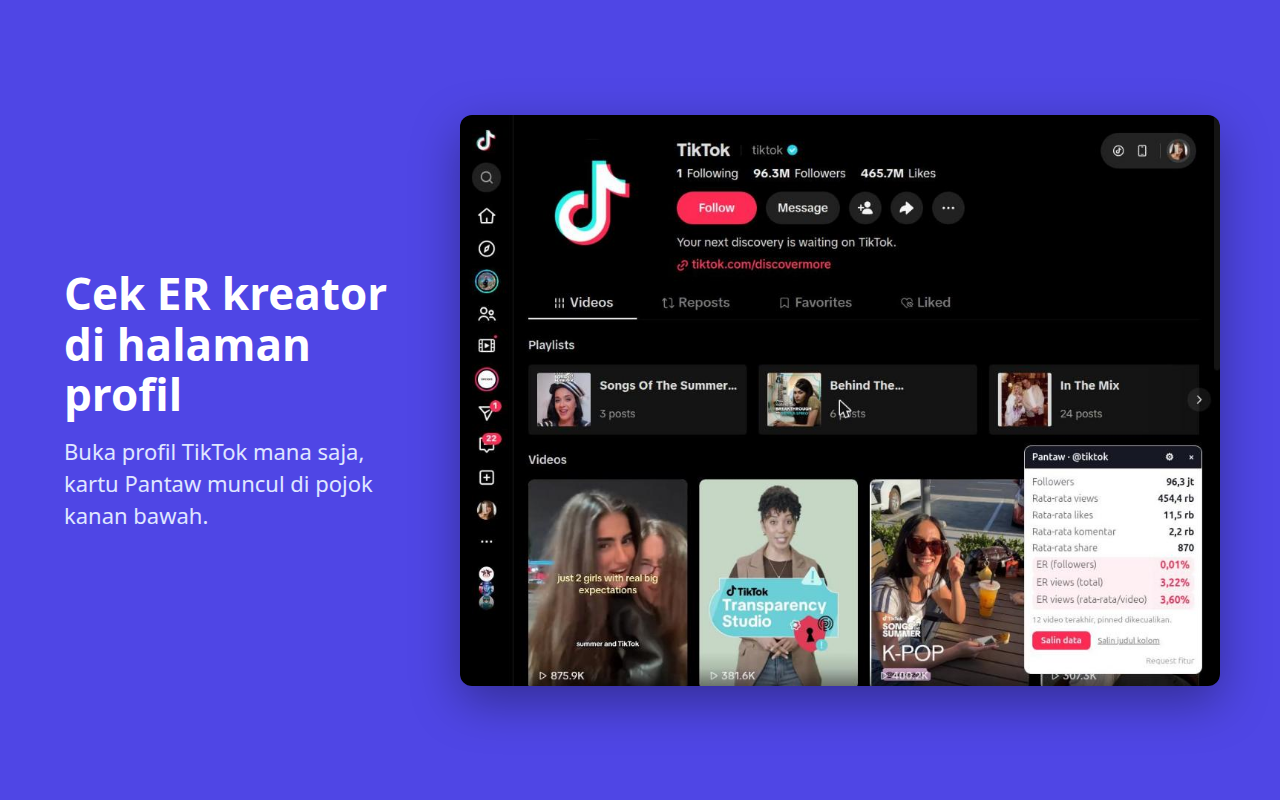
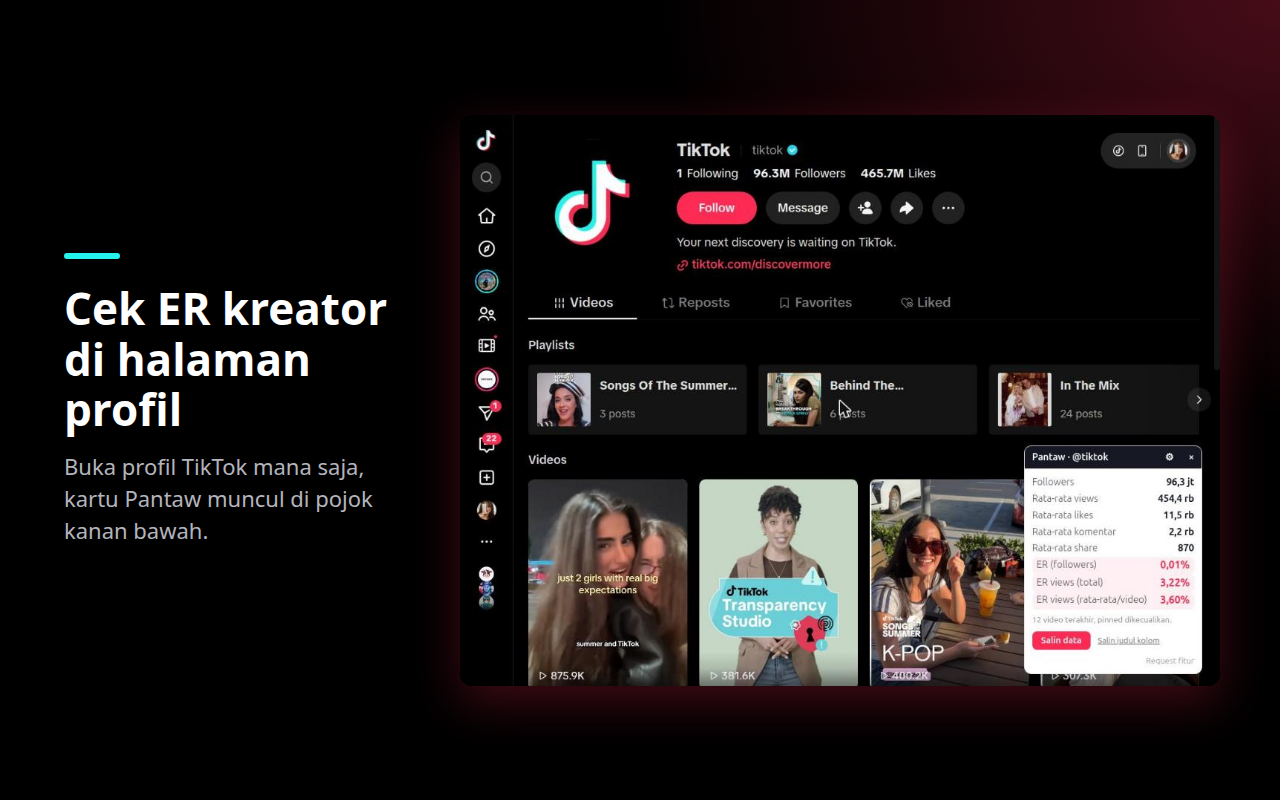
feat: palet hitam/merah/cyan untuk landing, privasi, ikon, aset store
- docs/index.html: dasar hitam, aksen #FE2C55, cyan #25F4EE untuk detail;
  header + hero selalu gelap; tombol #E3173F (teks putih AA 4,7:1)
- docs/privacy.html: warna baru + header gelap sama dengan landing
- ikon (assets/icon.svg, docs/icon.svg): lup merah + aksen glitch cyan di kotak hitam
- store: promo tile + bingkai screenshot dirender ulang dengan palet baru

diff --git a/docs/index.html b/docs/index.html
@@ -5,7 +5,7 @@
   <meta name="viewport" content="width=device-width, initial-scale=1">
   <title>Pantaw – Cek engagement rate KOL TikTok langsung di profil</title>
   <meta name="description" content="Extension Chrome gratis untuk cek engagement rate (ER) kreator TikTok langsung di halaman profil. Salin ke spreadsheet satu klik. Dihitung lokal, tanpa server, tanpa login.">
-  <meta name="theme-color" content="#4F46E5">
+  <meta name="theme-color" content="#000000">
   <link rel="icon" type="image/svg+xml" href="icon.svg">
   <meta property="og:type" content="website">
   <meta property="og:site_name" content="Pantaw">
@@ -17,15 +17,17 @@
   <style>
     :root {
       color-scheme: light dark;
-      --brand: #4F46E5; --brand-strong: #4338CA; --on-brand: #ffffff;
-      --fg: #111827; --muted: #4b5563; --bg: #ffffff; --soft: #f5f5ff; --card: #ffffff; --line: #e5e7eb;
-      --accent: #4F46E5;
+      /* Merah #FE2C55 terlalu terang untuk teks putih (3,7:1) → tombol pakai --brand yang sedikit lebih gelap (4,7:1). */
+      --red: #FE2C55; --cyan: #25F4EE;
+      --brand: #E3173F; --brand-strong: #C8102E; --on-brand: #ffffff;
+      --fg: #121212; --muted: #52525b; --bg: #ffffff; --soft: #f6f6f7; --card: #ffffff; --line: #e4e4e7;
+      --accent: #D4113A;
       --radius: 16px; --max: 1080px;
     }
     @media (prefers-color-scheme: dark) {
       :root {
-        --fg: #f3f4f6; --muted: #a1a1aa; --bg: #0b0d17; --soft: #12142a; --card: #161935; --line: #262a4d;
-        --accent: #a5b4fc;
+        --fg: #f5f5f5; --muted: #a1a1aa; --bg: #000000; --soft: #121212; --card: #161616; --line: #2a2a2a;
+        --accent: #FE2C55;
       }
     }
     * { box-sizing: border-box; }
@@ -39,9 +41,11 @@
     .lead { color: var(--muted); margin: 0 0 32px; max-width: 60ch; }
     section { padding: 64px 0; }
     .alt { background: var(--soft); }
+    /* Header & hero selalu gelap (di mode terang juga) */
+    header.top, .hero { color-scheme: dark; --fg: #f5f5f5; --muted: #b4b4bc; --bg: #000000; --soft: #121212; --card: #161616; --line: #2a2a2a; --accent: #FE2C55; color: var(--fg); }
 
     /* Header */
-    header.top { position: sticky; top: 0; z-index: 10; background: color-mix(in srgb, var(--bg) 85%, transparent); backdrop-filter: blur(10px); border-bottom: 1px solid var(--line); }
+    header.top { position: sticky; top: 0; z-index: 10; background: color-mix(in srgb, var(--bg) 92%, transparent); backdrop-filter: blur(10px); border-bottom: 1px solid var(--line); }
     header.top .wrap { display: flex; align-items: center; justify-content: space-between; height: 60px; }
     .brand { display: inline-flex; align-items: center; gap: 10px; font-weight: 700; font-size: 1.15rem; color: var(--fg); text-decoration: none; }
     .brand img { width: 30px; height: 30px; }
@@ -54,28 +58,28 @@
     .btns { display: flex; flex-wrap: wrap; gap: 12px; }
     .btn { display: inline-flex; align-items: center; justify-content: center; gap: 8px; min-height: 48px; padding: 0 22px; border-radius: 12px; font-weight: 600; text-decoration: none; border: 1px solid transparent; transition: transform .15s, background .15s; }
     .btn:hover { transform: translateY(-1px); }
-    .btn-primary { background: var(--brand); color: var(--on-brand); box-shadow: 0 8px 24px -8px rgba(79, 70, 229, .6); }
+    .btn-primary { background: var(--brand); color: var(--on-brand); box-shadow: 0 8px 24px -8px rgba(254, 44, 85, .6); }
     .btn-primary:hover { background: var(--brand-strong); }
     .btn-ghost { color: var(--fg); border-color: var(--line); background: var(--card); }
     .btn svg { width: 18px; height: 18px; flex: none; }
     @media (max-width: 480px) { .btns .btn { flex: 1 1 100%; } }
 
     /* Hero */
-    .hero { padding: 56px 0 40px; background: radial-gradient(1200px 500px at 50% -10%, rgba(79, 70, 229, .18), transparent 70%); }
+    .hero { padding: 56px 0 40px; background: radial-gradient(900px 420px at 85% -10%, rgba(254, 44, 85, .22), transparent 70%), radial-gradient(700px 360px at 0% 110%, rgba(37, 244, 238, .08), transparent 70%), #000; }
     .hero .wrap { display: grid; gap: 40px; }
-    .eyebrow { display: inline-block; font-size: 0.85rem; font-weight: 600; color: var(--accent); background: var(--soft); border: 1px solid var(--line); padding: 4px 12px; border-radius: 999px; margin-bottom: 16px; }
+    .eyebrow { display: inline-block; font-size: 0.85rem; font-weight: 600; color: var(--cyan); background: var(--soft); border: 1px solid var(--line); padding: 4px 12px; border-radius: 999px; margin-bottom: 16px; }
     .hero h1 { font-size: clamp(2rem, 6vw, 3.25rem); margin: 0 0 16px; }
     .hero h1 span { color: var(--accent); }
     .hero p.sub { font-size: 1.125rem; color: var(--muted); margin: 0 0 28px; max-width: 54ch; }
     .trust { display: flex; flex-wrap: wrap; gap: 8px 20px; margin: 20px 0 0; padding: 0; list-style: none; font-size: 0.9rem; color: var(--muted); }
-    .trust li::before { content: "✓ "; color: var(--accent); font-weight: 700; }
+    .trust li::before { content: "✓ "; color: var(--cyan); font-weight: 700; }
     @media (min-width: 900px) { .hero .wrap { grid-template-columns: 1fr 1.15fr; align-items: center; } .hero { padding: 80px 0 64px; } }
 
     /* Screenshot */
     .shot { border-radius: var(--radius); overflow: hidden; border: 1px solid var(--line); background: #000; box-shadow: 0 24px 60px -24px rgba(17, 24, 39, .35); }
     .shot img { width: 100%; }
     .stage { display: grid; place-items: center; padding: 28px 20px; border-radius: var(--radius); border: 1px solid var(--line);
-      background: radial-gradient(circle at 50% 0%, rgba(79, 70, 229, .22), transparent 70%), var(--soft); }
+      background: radial-gradient(circle at 50% 0%, rgba(254, 44, 85, .18), transparent 70%), var(--soft); }
     .stage img { border-radius: 14px; box-shadow: 0 18px 40px -18px rgba(17, 24, 39, .55); }
     figure { margin: 0; }
     figcaption { font-size: 0.9rem; color: var(--muted); margin-top: 12px; }
@@ -99,7 +103,7 @@
     @media (min-width: 960px) { .grid.four { grid-template-columns: repeat(4, 1fr); } .grid.three { grid-template-columns: repeat(3, 1fr); } }
     @media (min-width: 640px) and (max-width: 959px) { .grid.four { grid-template-columns: repeat(2, 1fr); } }
     .feat { background: var(--card); border: 1px solid var(--line); border-radius: var(--radius); padding: 22px; }
-    .feat .ic { width: 44px; height: 44px; border-radius: 12px; display: grid; place-items: center; background: rgba(79, 70, 229, .12); color: var(--accent); margin-bottom: 14px; }
+    .feat .ic { width: 44px; height: 44px; border-radius: 12px; display: grid; place-items: center; background: rgba(254, 44, 85, .12); color: var(--accent); margin-bottom: 14px; }
     .feat .ic svg { width: 22px; height: 22px; }
     .feat h3 { font-size: 1.05rem; margin: 0 0 6px; }
     .feat p { margin: 0; color: var(--muted); font-size: 0.95rem; }
@@ -116,11 +120,11 @@
     ol.steps p { margin: 0; color: var(--muted); font-size: 0.95rem; }
 
     /* Privasi */
-    .privacy { display: grid; gap: 28px; align-items: center; background: linear-gradient(135deg, var(--brand), #6D28D9); color: #fff; border-radius: 24px; padding: 36px 28px; }
+    .privacy { display: grid; gap: 28px; align-items: center; background: radial-gradient(600px 300px at 100% 0%, rgba(254, 44, 85, .28), transparent 70%), #121212; color: #fff; border: 1px solid #2a2a2a; border-radius: 24px; padding: 36px 28px; }
     .privacy h2 { color: #fff; }
-    .privacy p { color: rgba(255, 255, 255, .85); margin: 0 0 16px; }
+    .privacy p { color: #c4c4cc; margin: 0 0 16px; }
     .privacy ul { margin: 0; padding: 0; list-style: none; display: grid; gap: 10px; }
-    .privacy li { background: rgba(255, 255, 255, .1); border: 1px solid rgba(255, 255, 255, .18); border-radius: 12px; padding: 12px 14px; }
+    .privacy li { background: rgba(255, 255, 255, .06); border: 1px solid rgba(255, 255, 255, .12); border-left: 3px solid var(--cyan); border-radius: 12px; padding: 12px 14px; }
     .privacy a { color: #fff; font-weight: 600; }
     @media (min-width: 860px) { .privacy { grid-template-columns: 1fr 1fr; padding: 48px; } }
 

diff --git a/docs/privacy.html b/docs/privacy.html
@@ -5,10 +5,11 @@
   <meta name="viewport" content="width=device-width, initial-scale=1">
   <title>Kebijakan Privasi — Pantaw</title>
   <link rel="icon" type="image/svg+xml" href="icon.svg">
+  <meta name="theme-color" content="#000000">
   <meta name="description" content="Kebijakan privasi Pantaw – KOL ER Checker for TikTok: semua hitungan lokal di browser, tanpa server, tidak mengumpulkan data.">
   <style>
-    :root { color-scheme: light dark; --fg: #1f2937; --muted: #6b7280; --bg: #ffffff; --line: #e5e7eb; --accent: #4f46e5; }
-    @media (prefers-color-scheme: dark) { :root { --fg: #e5e7eb; --muted: #9ca3af; --bg: #111827; --line: #374151; --accent: #a5b4fc; } }
+    :root { color-scheme: light dark; --fg: #121212; --muted: #52525b; --bg: #ffffff; --line: #e5e7eb; --accent: #D4113A; }
+    @media (prefers-color-scheme: dark) { :root { --fg: #f5f5f5; --muted: #a1a1aa; --bg: #000000; --line: #2a2a2a; --accent: #FE2C55; } }
     * { box-sizing: border-box; }
     body { margin: 0; background: var(--bg); color: var(--fg); font: 16px/1.65 system-ui, -apple-system, "Segoe UI", Roboto, sans-serif; }
     main { max-width: 720px; margin: 0 auto; padding: 32px 20px 64px; }
@@ -21,9 +22,29 @@
     .muted { color: var(--muted); }
     section.en { margin-top: 40px; padding-top: 16px; border-top: 1px solid var(--line); }
     footer { margin-top: 40px; font-size: 0.9rem; }
+    /* Header gelap, sama dengan landing (docs/index.html) */
+    header.top { position: sticky; top: 0; z-index: 10; background: color-mix(in srgb, #000 92%, transparent); backdrop-filter: blur(10px); border-bottom: 1px solid #2a2a2a; color-scheme: dark; }
+    header.top .wrap { max-width: 1080px; margin: 0 auto; padding: 0 20px; display: flex; align-items: center; justify-content: space-between; height: 60px; }
+    .brand { display: inline-flex; align-items: center; gap: 10px; font-weight: 700; font-size: 1.15rem; color: #f5f5f5; text-decoration: none; }
+    .brand img { width: 30px; height: 30px; display: block; }
+    nav.links { display: flex; gap: 20px; font-size: 0.95rem; }
+    nav.links a { color: #b4b4bc; text-decoration: none; }
+    nav.links a:hover, nav.links a[aria-current] { color: #f5f5f5; }
+    @media (max-width: 640px) { nav.links .hide-sm { display: none; } }
   </style>
 </head>
 <body>
+<header class="top">
+  <div class="wrap">
+    <a class="brand" href="./"><img src="icon.svg" alt="" width="30" height="30">Pantaw</a>
+    <nav class="links">
+      <a class="hide-sm" href="./#fitur">Fitur</a>
+      <a class="hide-sm" href="./#cara-pakai">Cara pakai</a>
+      <a href="./#faq">FAQ</a>
+      <a href="privacy.html" aria-current="page">Privasi</a>
+    </nav>
+  </div>
+</header>
 <main>
   <h1>Kebijakan Privasi Pantaw</h1>
   <p class="muted">Pantaw – KOL ER Checker for TikTok (extension Chrome)<br>Berlaku sejak 16 Oktober 2026</p>

diff --git a/README.md b/README.md
@@ -59,12 +59,12 @@ Ikon: sumber `assets/icon.svg`; PNG 16/32/48/128 dibuat ke `dist/icons/` saat bu
 - [x] Pengaturan kolom (urutan + tampil/sembunyi) untuk kartu dan hasil salin — tombol ⚙ di kartu, ↑ ↓ + centang per kolom, "Kembalikan default"; satu `ColumnConfig` dipakai kartu, **Salin data**, dan **Salin judul kolom** (registri di `src/lib/columns.ts`, tes `tests/columns.test.ts`); disimpan di `chrome.storage.local` key `columns`, sinkron antar tab via `onChanged`; permission `storage` ditambahkan (satu-satunya, disetujui user 2026-10-15). Username/Nama/Jumlah video/Tanggal/Link hanya di hasil salin. Panel ⚙ diberi satu paragraf keterangan di atas daftar (fungsi centang, ↑ ↓, Kembalikan default, tersimpan di browser ini); tanpa keterangan per kolom (keputusan user 2026-10-16)
 - [x] Link **Request fitur** di kartu — `<a target="_blank" rel="noopener noreferrer">` kecil abu-abu rata kanan di bawah tombol salin, hanya saat metrik sudah ada — tidak saat "Menunggu data video…" (keputusan user 2026-10-16), membuka form Google (konstanta `FEATURE_REQUEST_URL` di `src/content.ts`) di tab baru; tanpa prefill — tidak ada username/data profil yang dikirim, tanpa permission baru. Belum dicek user di Chrome
 - [ ] Privacy policy + aset & listing Chrome Web Store — rincian (dicatat 2026-10-15):
-    - [x] Ikon PNG 16/32/48/128 + `icons` di `manifest.json` (SVG tidak boleh) — lup + pupil putih di kotak indigo `#4F46E5`; sumber `assets/icon.svg`, PNG digenerate ke `dist/icons/` tiap build oleh `scripts/icons.mjs` (rasterizer mini Node tanpa dependensi, PNG tidak di-commit); manifest tanpa `action`, jadi tidak ada `default_icon`
+    - [x] Ikon PNG 16/32/48/128 + `icons` di `manifest.json` (SVG tidak boleh) — lup merah `#FE2C55` + aksen glitch cyan `#25F4EE` + pupil putih di kotak hitam (palet TikTok 2026-10-16, sebelumnya indigo; 16px tetap terbaca); sumber `assets/icon.svg`, PNG digenerate ke `dist/icons/` tiap build oleh `scripts/icons.mjs` (rasterizer mini Node tanpa dependensi, PNG tidak di-commit); manifest tanpa `action`, jadi tidak ada `default_icon`
     - [x] `npm run zip`: build lalu zip **isi** `dist/` (manifest di akar zip), tolak kalau `version` tidak naik dari rilis terakhir — `scripts/zip.mjs` → `release/pantaw-<version>.zip` (`release/` di-.gitignore, pakai program `zip`); "rilis terakhir" = `pantaw-*.zip` dengan version tertinggi di `release/`
     - [x] Teks privacy policy (semua hitungan lokal, tanpa server, tidak mengumpulkan data) + URL publik untuk menampungnya
       - `docs/privacy.html` (ID + ringkasan EN) dan `docs/index.html`, di-host GitHub Pages dari folder `docs/` di `main`. URL yang diharapkan untuk listing: **https://anditriana.github.io/pantaw/privacy.html** (Pages belum diaktifkan — butuh merge + push dulu, lalu Settings → Pages → `main` / `/docs`)
-      - Landing `docs/index.html` didesain ulang 2026-10-16 untuk calon pemakai (marketer/brand/agensi): statis, CSS inline, mobile-first, dark mode ikut sistem, indigo `#4F46E5`; hero + fitur + cara pakai + privasi + FAQ + footer (Request fitur, GitHub, privasi, tidak berafiliasi TikTok). Screenshot asli dari Chrome user di `docs/img/` (`card.jpg` = hero + `og:image`, `card-zoom.png`, `settings.png`); hasil salin ditampilkan sebagai tabel CSS berlabel "contoh format · angka ilustrasi" (belum ada screenshot asli). Logo/favicon `docs/icon.svg` (salinan `assets/icon.svg`, karena Pages hanya menyajikan `docs/`). Tombol **Pasang di Chrome** masih `href="#"` + TODO sampai listing Chrome Web Store tayang
-    - [x] Draft listing: deskripsi, kategori, screenshot 1280×800, promo tile kecil 440×280 — `store/listing.md` (di luar `docs/`, tidak tayang di Pages): listing dua bahasa sungguhan (keputusan user 2026-10-16) — Indonesian default + English localized; nama/summary dari `_locales/{id,en}/messages.json` (manifest `__MSG_…__`, `default_locale` id, batas karakter dijaga `tests/locales.test.ts`, build menyalin `_locales/` ke `dist/`), deskripsi lengkap terpisah per bahasa, kategori Productivity, URL website/support/privacy, test instructions, checklist submit (Unlisted dulu). Aset: `store/promo-small.png` 440×280 dari `store/promo-small.svg` (tanpa logo TikTok) + 3 screenshot 1280×800 = bingkai indigo + screenshot asli `docs/img/`, dibuat `node store/render.mjs` (Chrome headless, karena `scripts/icons.mjs` tak bisa teks/raster); screenshot spreadsheet tidak dipakai, profil @tiktok dibiarkan (keputusan user). Kartu tampil normal setelah reload di Chrome biasa (dicek 2026-10-16)
+      - Landing `docs/index.html` didesain ulang 2026-10-16 untuk calon pemakai (marketer/brand/agensi): statis, CSS inline, mobile-first, dark mode ikut sistem; palet hitam/merah `#FE2C55`/cyan `#25F4EE` (2026-10-16, ganti dari indigo): header + hero selalu gelap, tombol utama `#E3173F` supaya teks putih lolos AA (4,7:1), cyan hanya detail kecil, `privacy.html` ikut header gelap yang sama; hero + fitur + cara pakai + privasi + FAQ + footer (Request fitur, GitHub, privasi, tidak berafiliasi TikTok). Screenshot asli dari Chrome user di `docs/img/` (`card.jpg` = hero + `og:image`, `card-zoom.png`, `settings.png`); hasil salin ditampilkan sebagai tabel CSS berlabel "contoh format · angka ilustrasi" (belum ada screenshot asli). Logo/favicon `docs/icon.svg` (salinan `assets/icon.svg`, karena Pages hanya menyajikan `docs/`). Tombol **Pasang di Chrome** masih `href="#"` + TODO sampai listing Chrome Web Store tayang
+    - [x] Draft listing: deskripsi, kategori, screenshot 1280×800, promo tile kecil 440×280 — `store/listing.md` (di luar `docs/`, tidak tayang di Pages): listing dua bahasa sungguhan (keputusan user 2026-10-16) — Indonesian default + English localized; nama/summary dari `_locales/{id,en}/messages.json` (manifest `__MSG_…__`, `default_locale` id, batas karakter dijaga `tests/locales.test.ts`, build menyalin `_locales/` ke `dist/`), deskripsi lengkap terpisah per bahasa, kategori Productivity, URL website/support/privacy, test instructions, checklist submit (Unlisted dulu). Aset: `store/promo-small.png` 440×280 dari `store/promo-small.svg` (tanpa logo TikTok) + 3 screenshot 1280×800 = bingkai hitam/merah/cyan + screenshot asli `docs/img/`, dibuat `node store/render.mjs` (Chrome headless, karena `scripts/icons.mjs` tak bisa teks/raster); screenshot spreadsheet tidak dipakai, profil @tiktok dibiarkan (keputusan user). Kartu tampil normal setelah reload di Chrome biasa (dicek 2026-10-16)
     - [x] Isian tab Privacy: single purpose, justifikasi `storage` (pengaturan kolom) dan host `tiktok.com` (baca data yang sudah dimuat halaman), remote code = tidak ada, data usage = tidak dikumpulkan; sebutkan link **Request fitur** hanya membuka form Google di tab baru atas klik user, tanpa data terkirim otomatis (isian form diproses Google, bukan extension) — cantumkan juga di privacy policy — draft di `store/listing.md` bagian 2: single purpose, justifikasi `storage` + host, remote code = No, data usage tidak ada kategori dicentang (keputusan user 2026-10-16; cadangan "Website content" bila reviewer keberatan), tiga sertifikasi; Request fitur sudah tercantum di `docs/privacy.html`
     - [x] Nama: pertimbangkan "KOL ER Checker for TikTok" (merek di judul rawan ditolak review) — merek **Pantaw** (keputusan user 2026-10-16): `name` "Pantaw – KOL ER Checker for TikTok", `short_name` "Pantaw", `description` bahasa Indonesia (131 karakter, sama dengan bahasa UI & target pengguna); `version` 0.1.0; judul kartu "Pantaw · @user" (format TSV tidak berubah)
     - [ ] (user) Daftar Developer Dashboard (sekali bayar ±USD 5), upload, submit — mulai **Unlisted** untuk tes

diff --git a/store/listing.md b/store/listing.md
@@ -213,7 +213,7 @@ Membuat ulang semua PNG: `node store/render.mjs` (dari akar repo; butuh `google-
 
 ### Isi tiap screenshot
 
-Semua: kanvas 1280×800 latar indigo `#4F46E5`, judul + subjudul putih di kiri, **screenshot asli** dari `docs/img/`
+Semua: kanvas 1280×800 latar hitam dengan cahaya merah `#FE2C55` di kanan atas, garis aksen cyan `#25F4EE` + judul putih + subjudul abu di kiri, **screenshot asli** dari `docs/img/`
 di kanan (hanya diperkecil/diperbesar, isi UI tidak diubah). Profil contoh = akun publik resmi `@tiktok`.
 
 1. **"Cek ER kreator di halaman profil"** — *Buka profil TikTok mana saja, kartu Pantaw muncul di pojok kanan bawah.*
@@ -231,8 +231,8 @@ Screenshot 1 memperlihatkan halaman TikTok apa adanya, termasuk logo TikTok di a
 
 ### Small promo tile
 
-`store/promo-small.svg` → `store/promo-small.png` (440×280): latar indigo `#4F46E5`, ikon Pantaw versi putih
-(lup indigo di kotak putih), teks **Pantaw**, tagline "Cek engagement rate KOL / langsung di halaman profil kreator".
+`store/promo-small.svg` → `store/promo-small.png` (440×280): latar hitam + cahaya merah, ikon Pantaw
+(lup merah + aksen cyan di kotak `#121212`), teks **Pantaw** (kata "engagement rate" merah), tagline "Cek engagement rate KOL / langsung di halaman profil kreator".
 Kata "TikTok" sengaja tidak dipakai di tile.
 
 ---
